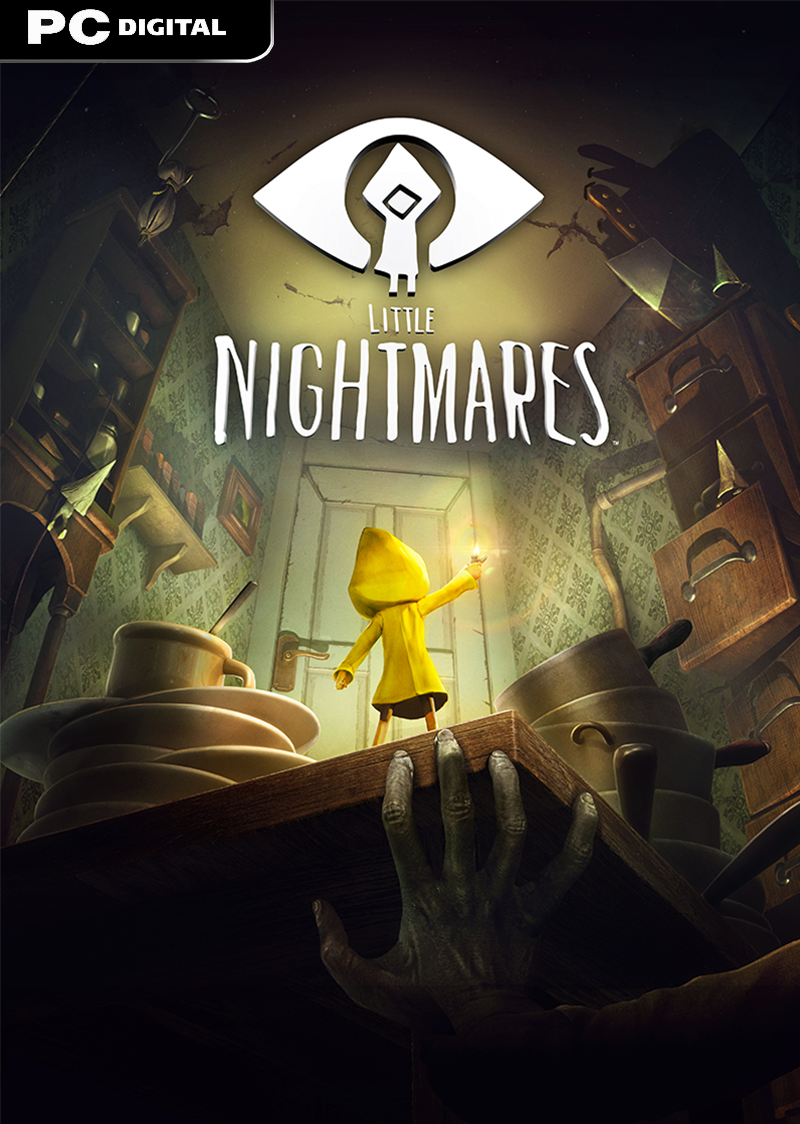
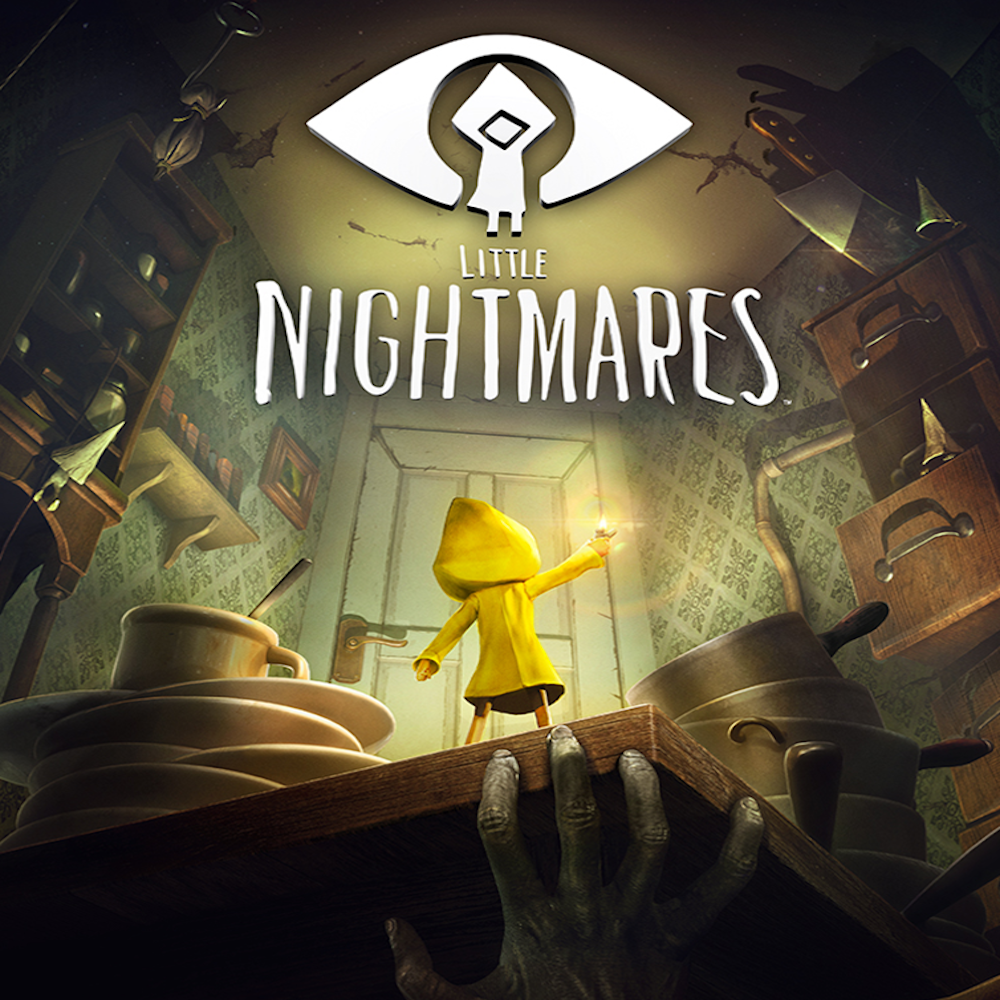
added cover for Little Nightmares

diff --git a/index.html b/index.html
@@ -168,11 +168,11 @@ h3 {
   </div>
   <div class="column">
     <div class="content">
-        <img src="images/Uncharted 4.jpeg" alt="Uncharted 4" style="width:100%; border-radius: 12px;">
+        <img src="images/nightmares.png" alt="Little Nightmares" style="width:100%; border-radius: 12px;">
       <center><a href="https://www.youtube.com/watch?v=hh5HV4iic1Y" target="_blank" rel="noopener noreferrer">
         <img border="0" alt="Uncharted 4 Trailer" src="images/youtube.png" width="50" height="40">
         </a></center>
-        <h3 style="text-align: center;">Uncharted 4: A Thief's End</h3>
+        <h3 style="text-align: center;">Little Nightmares</h3>
         <hr>
         <p><b>Genre:</b> Action-adventure, third-person shooter</p>
         <p><b>Developer:</b> Naughty Dog</p>
